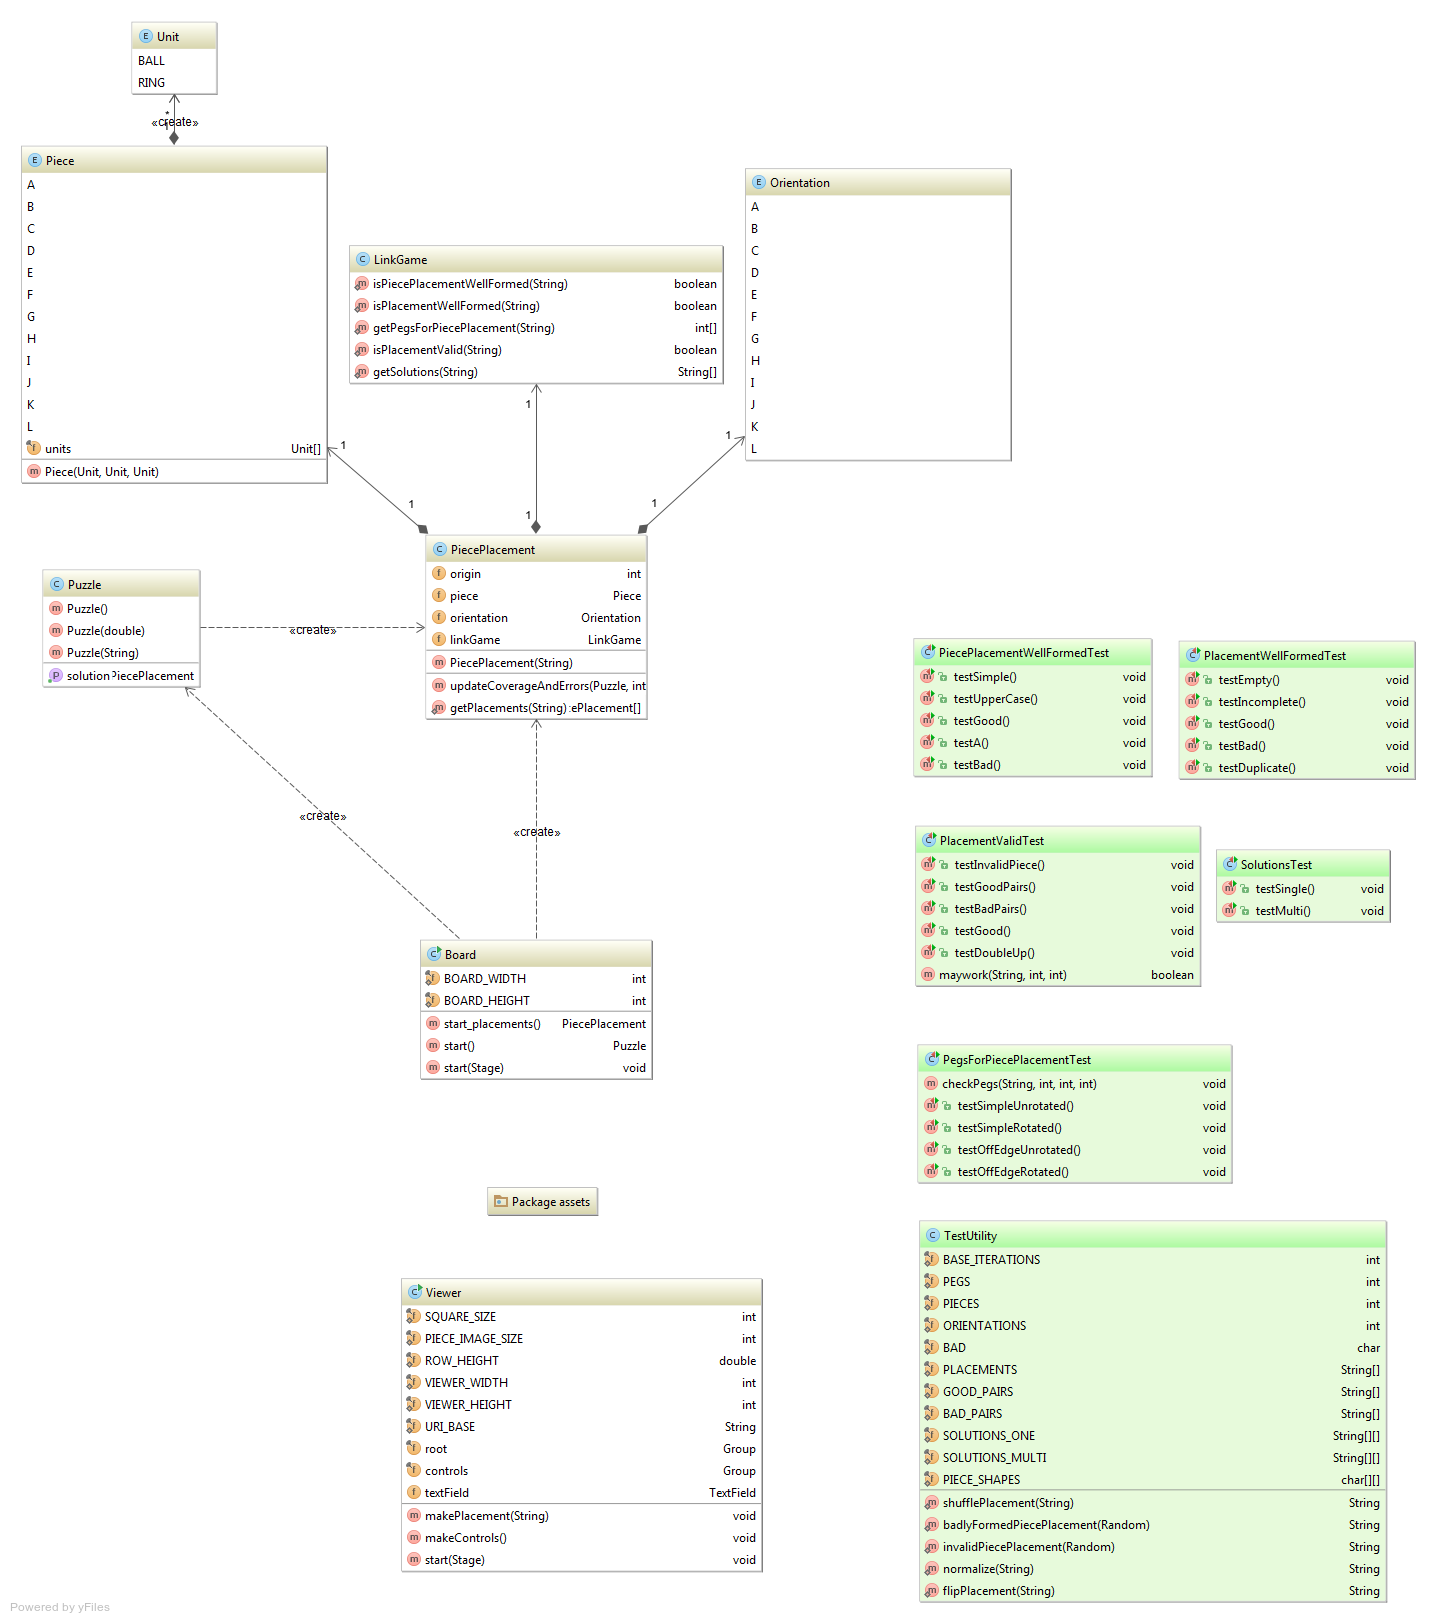
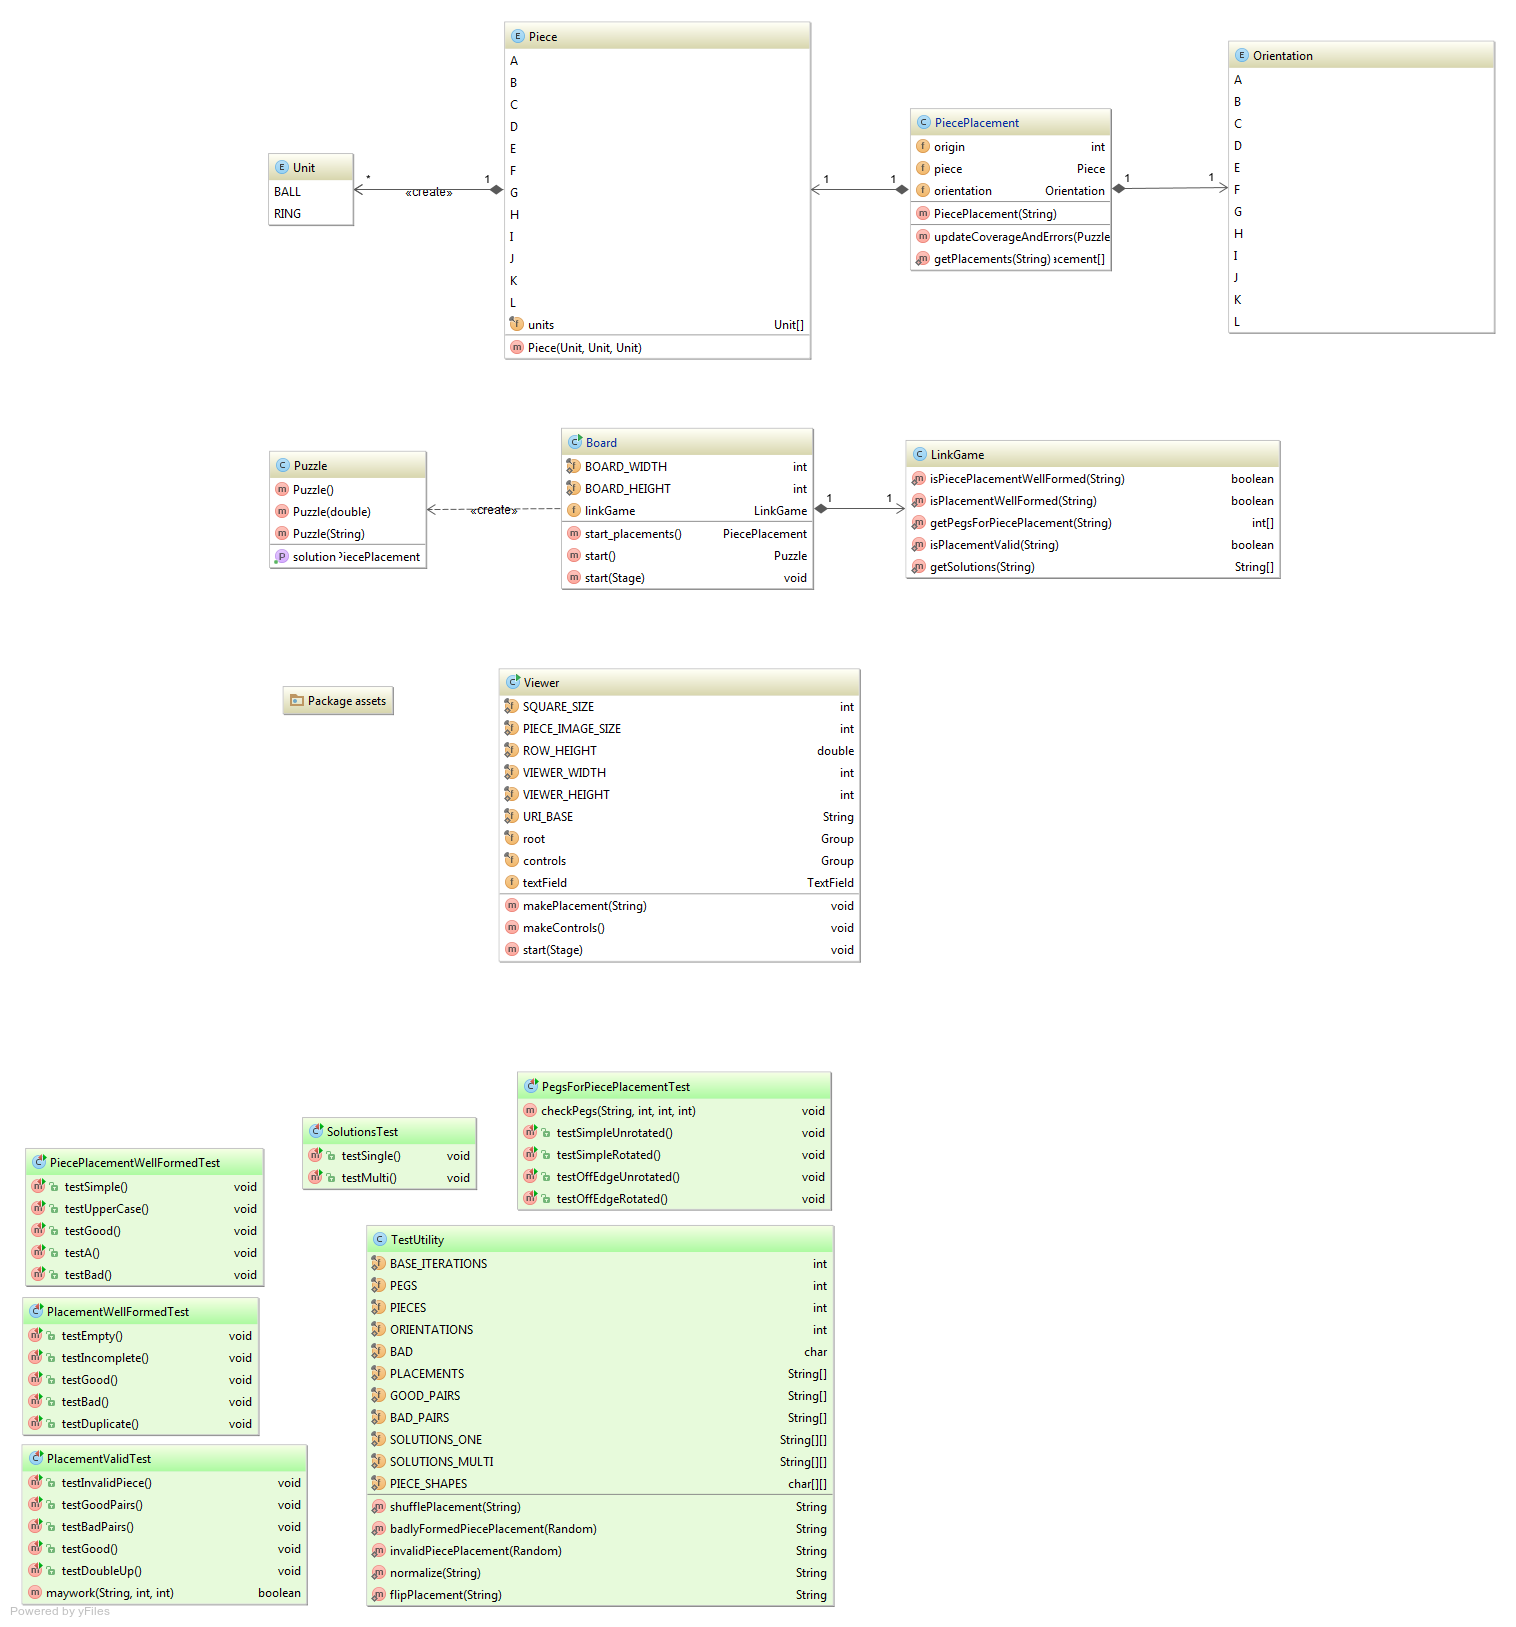
Update ass2.uml and UML.png files.

diff --git a/src/comp1110/ass2/gui/Board.java b/src/comp1110/ass2/gui/Board.java
@@ -1,5 +1,6 @@
 package comp1110.ass2.gui;
 
+import comp1110.ass2.LinkGame;
 import comp1110.ass2.PiecePlacement;
 import comp1110.ass2.Puzzle;
 import javafx.application.Application;
@@ -8,6 +9,7 @@ import javafx.stage.Stage;
 public class Board extends Application{
     private static final int BOARD_WIDTH = 933;
     private static final int BOARD_HEIGHT = 700;
+    private LinkGame linkGame;
 
     // FIXME Task 8: Implement a basic playable Link Game in JavaFX that only allows pieces to be placed in valid places
 

diff --git a/src/comp1110/ass2/PiecePlacement.java b/src/comp1110/ass2/PiecePlacement.java
@@ -7,7 +7,7 @@ public class PiecePlacement {
     private int origin;
     private Piece piece;
     private Orientation orientation;
-    private LinkGame linkGame;
+    //private LinkGame linkGame;
 
     PiecePlacement(String pieceplacement) {
         origin = pieceplacement.charAt(0)-'A';
